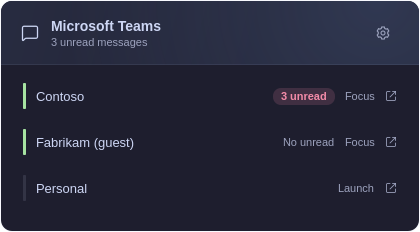
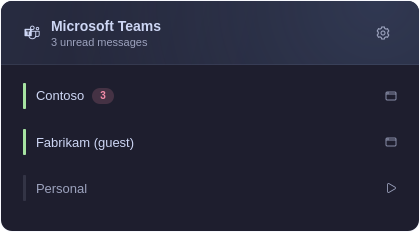
docs(teams): refresh README and screenshot for the new account rows and kit 0.5.1
Describe the account rows as they are now (badge beside the name, window
and play icons, the verb under the cursor, dimmed closed accounts), the
launch error and its 15 s window timeout, and the IPC target and its
functions. Re-render the screenshot from the current tree and describe it
in the alt text.

diff --git a/README.md b/README.md
@@ -2,7 +2,7 @@
 
 Microsoft Teams account switching and unread status.
 
-![Foamy Teams screenshot](preview.png)
+![Foamy Teams panel: three demo accounts, one with 3 unread messages and one closed](preview.png)
 
 ## Install
 
@@ -24,8 +24,12 @@ Remove the previous Teams widget from the bar when replacing it.
 3. Select the open Teams window, give the account a name, and set its browser profile.
 4. Select an account in the panel to focus its window or launch it.
 
-Unread counts appear in red badges. Markers in the theme's green identify running accounts;
-closed accounts show **Launch**. Right-click the widget to open settings.
+Unread counts appear in red badges beside the account name. Markers in the
+theme's green identify running accounts, which show a window icon (**Focus**);
+closed accounts have a dimmed name and a play icon (**Launch**). The verb shows
+on the row under the cursor. If the launcher can't be started, or no matching
+window appears within 15 seconds, the panel shows an error. Right-click the
+widget to open settings.
 Middle-click opens your selected default account, or the account with the most
 unread messages, preferring focused and running accounts when counts are equal.
 
@@ -33,6 +37,9 @@ In the panel, use the arrow keys or H/J/K/L to move the cursor, Enter or Space
 to open the selected account, S for settings, Tab or Shift+Tab to switch to the
 neighbouring bar panel, and Escape to close. In Settings, Tab moves between
 fields and Escape goes back.
+
+IPC (`omarchy-shell foamy.teams <fn>` on 4.5, `qs ipc call foamy.teams <fn>`):
+`open`, `close`, `toggle`, `settings`.
 
 ### Settings
 
